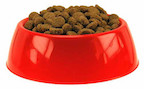
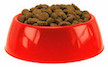
img resize,cat care actions to links, style update

diff --git a/index.html b/index.html
@@ -1,48 +1,50 @@
 <!DOCTYPE html>
 <html>
-    <head>
-        <meta charset="utf-8">
-        <title>Cattery</title>
+   <head>
+      <meta charset="utf-8">
+      <title>Cattery</title>
+      <link href="https://fonts.googleapis.com/css?family=Amatic+SC&display=swap" rel="stylesheet">
+      <link rel="stylesheet" href="style.css">
 
-        <!-- insert JavaScript and Handlebars template here in script tags -->
+      <!-- insert JavaScript and Handlebars template here in script tags -->
 
-    </head>
+   </head>
 
-    <body>
-        <header>
-            <div class="headerImageContainer">
-                <img src="images/paw3.png" alt="Cattery Logo">
-            </div>
+   <body>
+      <header>
+	 <div class="headerImageContainer">
+	    <img src="images/paw3.png" alt="Cattery Logo">
+	 </div>
 
-            <h1 class="siteTitle"><a href="#">Cattery</a></h1>
-        </header>
+	 <h1 class="siteTitle">Cattery</h1>
+      </header>
 
-        <main class="content">
-<div class = "cat-care-container">
-   <div class = "cat-grooming">
-      <div class = "cat-grooming-image-container">
-      <img src = "images/brush.jpg">
-      </div>
-      <div class = "cat-grooming-title">
-	 <p> Groom </p>
-      </div>
-   </div>
-   <div class = "cat-feeding">
-      <div class = "cat-feeding-image-container">
-      <img src = "images/bowl.jpg">
-      </div>
-      <div class = "cat-feeding-title">
-	 <p> Feed </p>
-      </div>
-   </div>
-   <div class = "cat-playing">
-      <div class = "cat-playing-image-container">
-      <img src = "images/cat_toy.jpg">
-      </div>
-      <div class = "cat-playing-title">
-	 <p> Play </p>
-      </div>
-   </div>
-        </main>
-    </body>
+      <main class="content">
+      <div class = "cat-care-container">
+	 <div class = "cat-grooming">
+	    <div class = "cat-grooming-image-container">
+	       <img src = "images/brush.jpg">
+	    </div>
+	    <div class = "cat-grooming-title">
+	       <a href = "#"> Groom </a>
+	    </div>
+	 </div>
+	 <div class = "cat-feeding">
+	    <div class = "cat-feeding-image-container">
+	       <img src = "images/bowl.jpg">
+	    </div>
+	    <div class = "cat-feeding-title">
+	       <a href = "#"> Feed </a>
+	    </div>
+	 </div>
+	 <div class = "cat-playing">
+	    <div class = "cat-playing-image-container">
+	       <img src = "images/cat_toy.jpg">
+	    </div>
+	    <div class = "cat-playing-title">
+	       <a href = "#"> Play </a>
+	    </div>
+	 </div>
+      </main>
+   </body>
 </html>

diff --git a/style.css b/style.css
@@ -3,17 +3,36 @@ a {
   color: #000;
 }
 header {
-  background-color: ;white
+  background-color: #18bc9c;
   display: flex;
   align-items: center;
   position: relative;
 }
 
 .siteTitle {
-  font-size: 100px;
-  font-weight: 100;
-  margin: 0 0 0 20px;
-  padding-top: 30px;
+  font-family: 'Amatic SC', cursive;
+  font-size: 120px;
+  font-weight: 120;
+  margin: 0 0 10px 50px;
+  padding-top: 20px;
 }
 
+.cat-care-container{
+    font-family: 'Amatic SC', cursive;
+    font-size:25px;
+    text-align: center;
+  display: inline-block;
+  min-width: 150px;
+  max-width: 150px;
+  margin: 10px 10px auto 10px;
+  padding: 20px;
+  border-radius: 3px;
+ }
 
+ a:hover{
+    text-decoration: underline;
+ }
+
+ .siteTile a:hover{
+    text-decoration:none;
+ }
